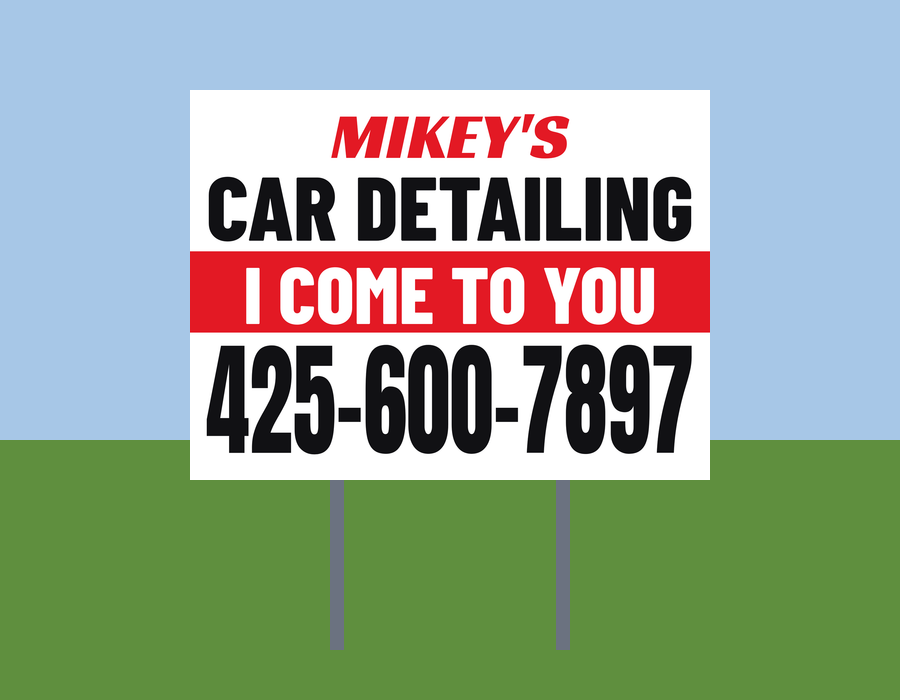
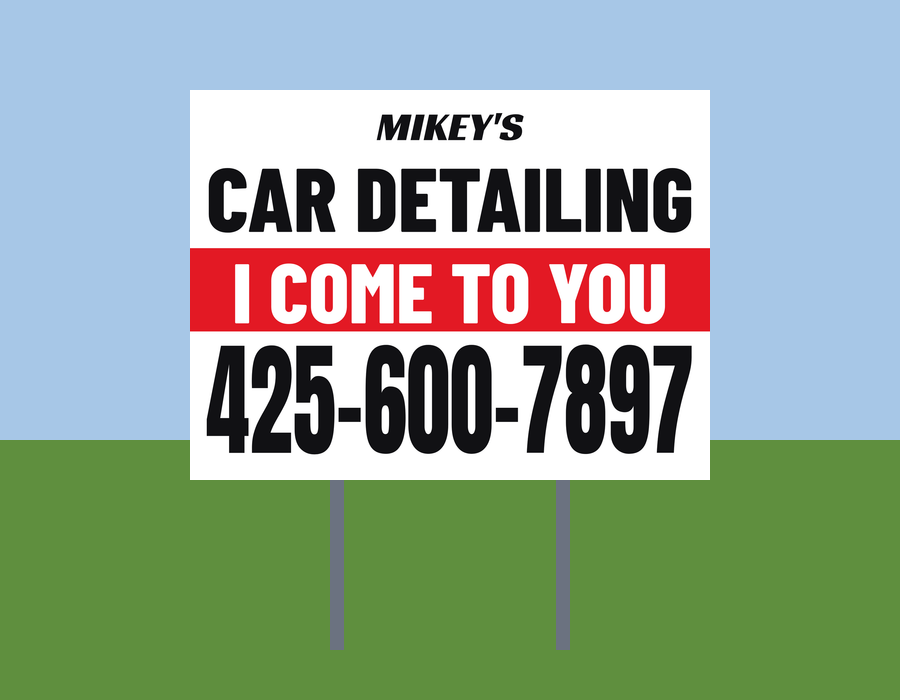
Yard sign: MIKEY'S smaller and black so it doesn't compete
Mikey's call: the name was pulling the eye away from what, how and the
number. It's now 1.2 in and black, so the only red on the sign is the
I COME TO YOU band. The generator fails if the name grows back to the
size of the band line.

Claude-Session: https://claude.ai/code/session_01UPHToftEyWzvx3bWRMDMZX

Changed region(s): [[0.2178, 0.15, 0.7778, 0.48]]

diff --git a/print/yard-signs/README.md b/print/yard-signs/README.md
@@ -106,9 +106,9 @@ so a phone number you want read from 100 feet needs 3 to 4 inch characters.
 options compared that day):
 
 ```
-            MIKEY'S               (red, Racing Sans One, the logo's face: 1.9 in letters)
+            MIKEY'S               (black, Racing Sans One, the logo's face: 1.2 in letters)
          CAR DETAILING            (black, Barlow Condensed: 2.9 in letters)
-         I COME TO YOU            (white on a full-width red band: 2.6 in letters)
+         I COME TO YOU            (white on a full-width red band: 2.7 in letters)
           425-600-7897            (black, Anton stretched tall: 5 in digits)
 ```
 
@@ -121,6 +121,10 @@ Why it's laid out that way:
 - **The number is the biggest thing**, and the only thing a driver can act on.
   A tall, narrow number font (an idea taken off the printer's first proof)
   and dropping the brackets took the digits from 2.6 in to 5 in.
+- **The name sits back.** MIKEY'S is small and black, not red, so the only red
+  on the sign is the band and the eye goes what, how, number (Mikey,
+  2026-10-01). It's there for the people who pass it every day and later
+  search the name, not for the first glance.
 - **No QR and no website.** Drivers don't scan, and the strip they took up was
   most of the number's lost height. Sign leads get logged by asking (section 6).
 - **No "call or text" line.** Mikey's call: people text a number on a sign
